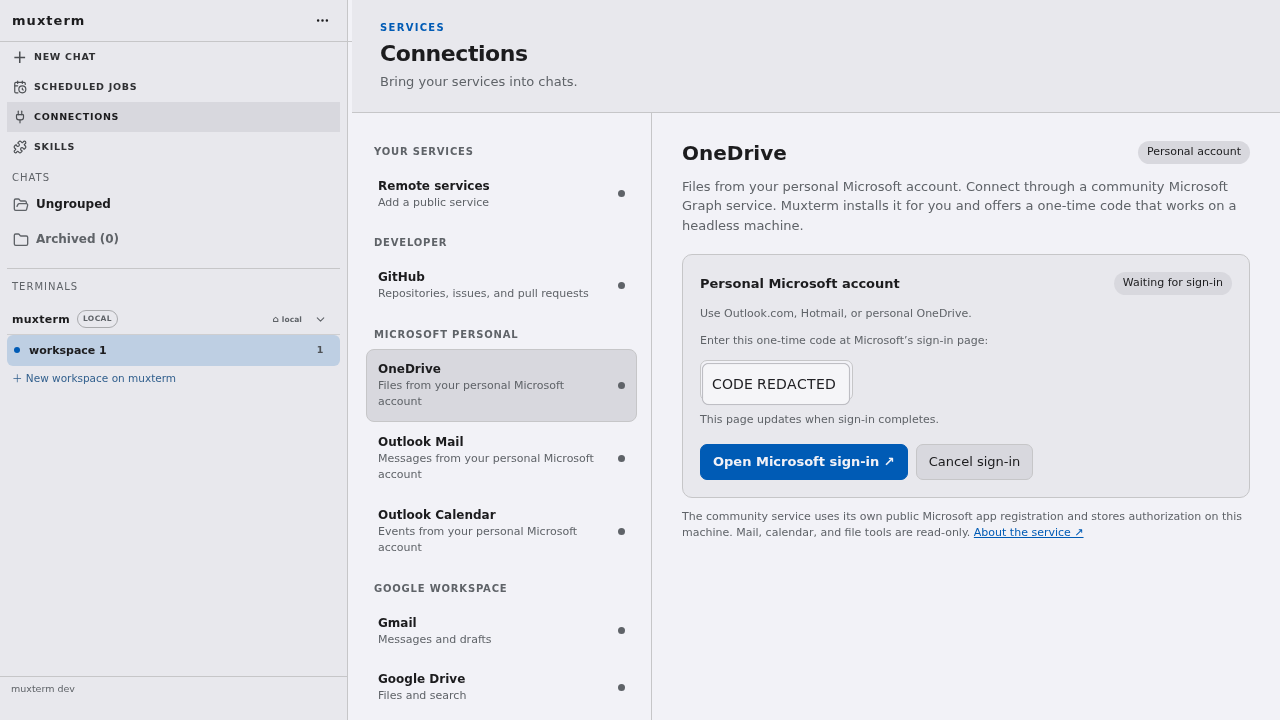
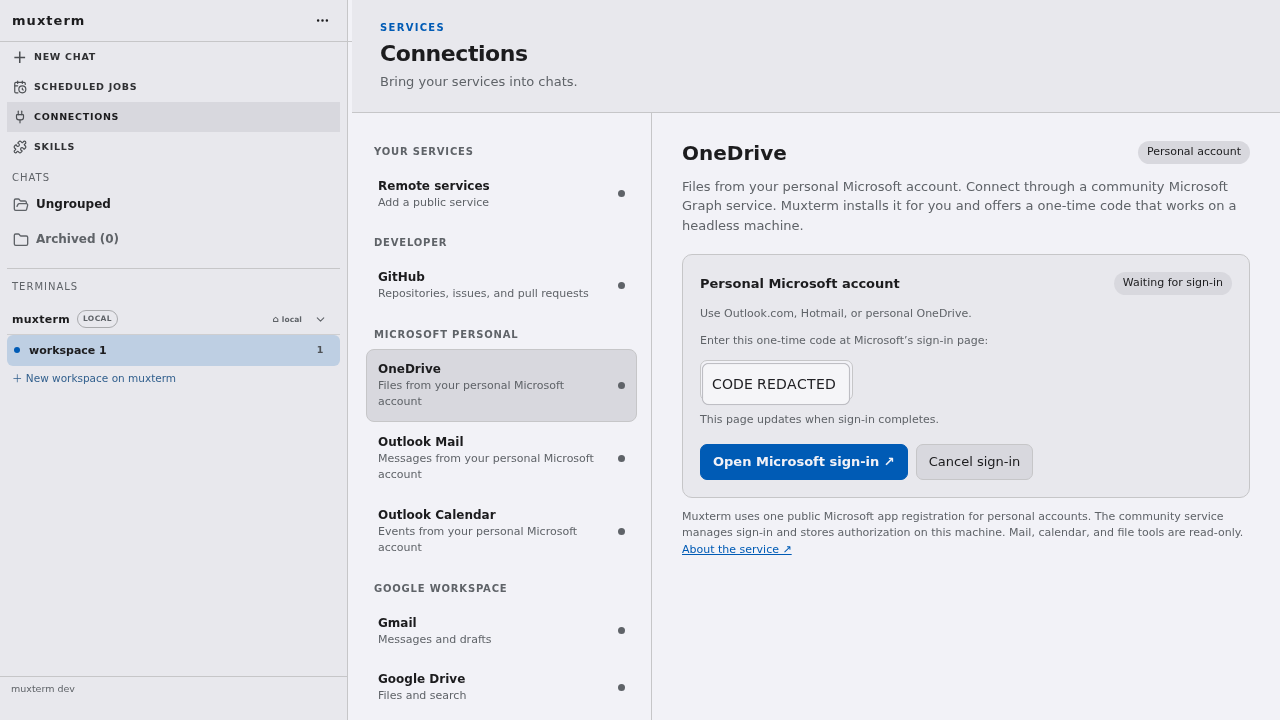
Use Muxterm app for personal Microsoft connection

Changed region(s): [[0.5312, 0.7028, 0.9688, 0.7944]]

diff --git a/web/src/components/mux-connections.ts b/web/src/components/mux-connections.ts
@@ -100,7 +100,8 @@ export class MuxConnections extends LitElement {
     const abort=new AbortController();
     this.refreshAbort=abort;
     try {
-      const [data,remotes,microsoft,legacyWorkIQ]=await Promise.all([this.request<ConnectionsResponse>('/api/connections',{signal:abort.signal}),this.request<RemoteResponse>('/api/connections/remote',{signal:abort.signal}),this.request<MicrosoftState>('/api/connections/microsoft',{signal:abort.signal}),this.request<LegacyWorkIQ>('/api/connections/workiq',{signal:abort.signal})]);
+      const legacy=this.request<LegacyWorkIQ>('/api/connections/workiq',{signal:abort.signal}).catch(()=>({savedAuthorization:false}));
+      const [data,remotes,microsoft,legacyWorkIQ]=await Promise.all([this.request<ConnectionsResponse>('/api/connections',{signal:abort.signal}),this.request<RemoteResponse>('/api/connections/remote',{signal:abort.signal}),this.request<MicrosoftState>('/api/connections/microsoft',{signal:abort.signal}),legacy]);
       if (abort.signal.aborted || !this.isConnected) return;
       [this.data,this.remotes,this.microsoft,this.legacyWorkIQ]=[data,remotes,microsoft,legacyWorkIQ];
     }
@@ -275,7 +276,7 @@ export class MuxConnections extends LitElement {
       <p class="lead">${service.description}. Connect through a community Microsoft Graph service. Muxterm installs it for you and offers a one-time code that works on a headless machine.</p>
       ${this.microsoftProfile()}
       ${this.legacyWorkIQ?.savedAuthorization?html`<div class="box"><strong>Previous Work IQ authorization</strong><p class="note">The old Work IQ connection no longer supplies tools to new chats. Its saved authorization remains on this machine until you remove it.</p><div class="actions"><button class="action" ?disabled=${!!this.busy} @click=${this.removeLegacyWorkIQ}>Remove old authorization</button></div></div>`:nothing}
-      <p class="note">The community service uses its own public Microsoft app registration and stores authorization on this machine. Mail, calendar, and file tools are read-only. <a href="https://github.com/Softeria/ms-365-mcp-server" target="_blank" rel="noopener noreferrer">About the service ↗</a></p>`;
+      <p class="note">Muxterm uses one public Microsoft app registration for personal accounts. The community service manages sign-in and stores authorization on this machine. Mail, calendar, and file tools are read-only. <a href="https://github.com/Softeria/ms-365-mcp-server" target="_blank" rel="noopener noreferrer">About the service ↗</a></p>`;
   }
   override render() {
     const groups=['Developer','Microsoft personal','Google Workspace'];

diff --git a/internal/server/microsoft_graph.go b/internal/server/microsoft_graph.go
@@ -7,6 +7,7 @@ import (
 	"errors"
 	"fmt"
 	"io"
+	"log"
 	"net/http"
 	"os"
 	"os/exec"
@@ -21,11 +22,11 @@ import (
 	"github.com/modelcontextprotocol/go-sdk/mcp"
 )
 
-// The existing community MCP server owns Graph tools, MSAL, and token refresh.
-// Muxterm pins its package and limits the exposed surface to read-only mail,
-// calendar, and files. The vendor's public client is used; no Muxterm OAuth
-// registration or client secret is needed.
+// The community MCP server owns Graph tools, MSAL, and token refresh. Muxterm
+// owns the public app registration used by every personal-account connection.
+// The client ID is public; device-code sign-in needs no client secret.
 const microsoftGraphVersion = "0.158.0"
+const microsoftGraphClientID = "aefd0a14-e065-463e-a806-06e1e1465a18"
 
 //go:embed ms365-package/package.json ms365-package/package-lock.json
 var microsoftGraphInstallFiles embed.FS
@@ -96,6 +97,7 @@ func microsoftGraphEnvironment(p *microsoftGraphProfile) []string {
 	authDir := filepath.Join(microsoftGraphProfileDir(p.name), "auth")
 	return append(env,
 		"XDG_CONFIG_HOME="+authDir,
+		"MS365_MCP_CLIENT_ID="+microsoftGraphClientID,
 		"MS365_MCP_TENANT_ID="+p.tenant,
 		"MS365_MCP_TOKEN_CACHE_PATH="+filepath.Join(authDir, ".token-cache.json"),
 		"MS365_MCP_SELECTED_ACCOUNT_PATH="+filepath.Join(authDir, ".selected-account.json"),
@@ -151,6 +153,7 @@ func ensureMicrosoftGraphPackage(ctx context.Context) error {
 	cmd := exec.CommandContext(ctx, npm, "ci", "--prefix", tmp, "--omit=optional", "--ignore-scripts", "--no-audit", "--no-fund")
 	cmd.Stdout, cmd.Stderr = io.Discard, io.Discard
 	if err := cmd.Run(); err != nil {
+		log.Printf("microsoft service package download failed: %v", err)
 		return errors.New("Microsoft service download failed")
 	}
 	entry := filepath.Join(tmp, "node_modules", "@softeria", "ms-365-mcp-server", "dist", "index.js")
@@ -423,11 +426,25 @@ func (s *Server) handleMicrosoftGraphCheck(w http.ResponseWriter, r *http.Reques
 		return
 	}
 	cmd.Stderr = io.Discard
-	output, err := cmd.Output()
+	stdout, err := cmd.StdoutPipe()
+	if err != nil {
+		http.Error(w, "Microsoft service could not be checked", http.StatusBadGateway)
+		return
+	}
+	if err := cmd.Start(); err != nil {
+		http.Error(w, "Microsoft service could not be checked", http.StatusBadGateway)
+		return
+	}
+	const maxVerificationOutput = 64 << 10
+	output, readErr := io.ReadAll(io.LimitReader(stdout, maxVerificationOutput+1))
+	if readErr != nil || len(output) > maxVerificationOutput {
+		_ = cmd.Process.Kill()
+	}
+	waitErr := cmd.Wait()
 	var result struct {
 		Success bool `json:"success"`
 	}
-	if err != nil || json.Unmarshal(output, &result) != nil || !result.Success {
+	if readErr != nil || len(output) > maxVerificationOutput || waitErr != nil || json.Unmarshal(output, &result) != nil || !result.Success {
 		p.mu.Lock()
 		if p.generation != generation || !microsoftGraphEnabled(p.name) {
 			p.mu.Unlock()
@@ -435,6 +452,7 @@ func (s *Server) handleMicrosoftGraphCheck(w http.ResponseWriter, r *http.Reques
 			return
 		}
 		p.errorMessage = "Microsoft authorization needs another sign-in"
+		p.toolCount, p.checkedAt = 0, time.Time{}
 		p.mu.Unlock()
 		http.Error(w, "Microsoft authorization needs another sign-in", http.StatusBadGateway)
 		return
